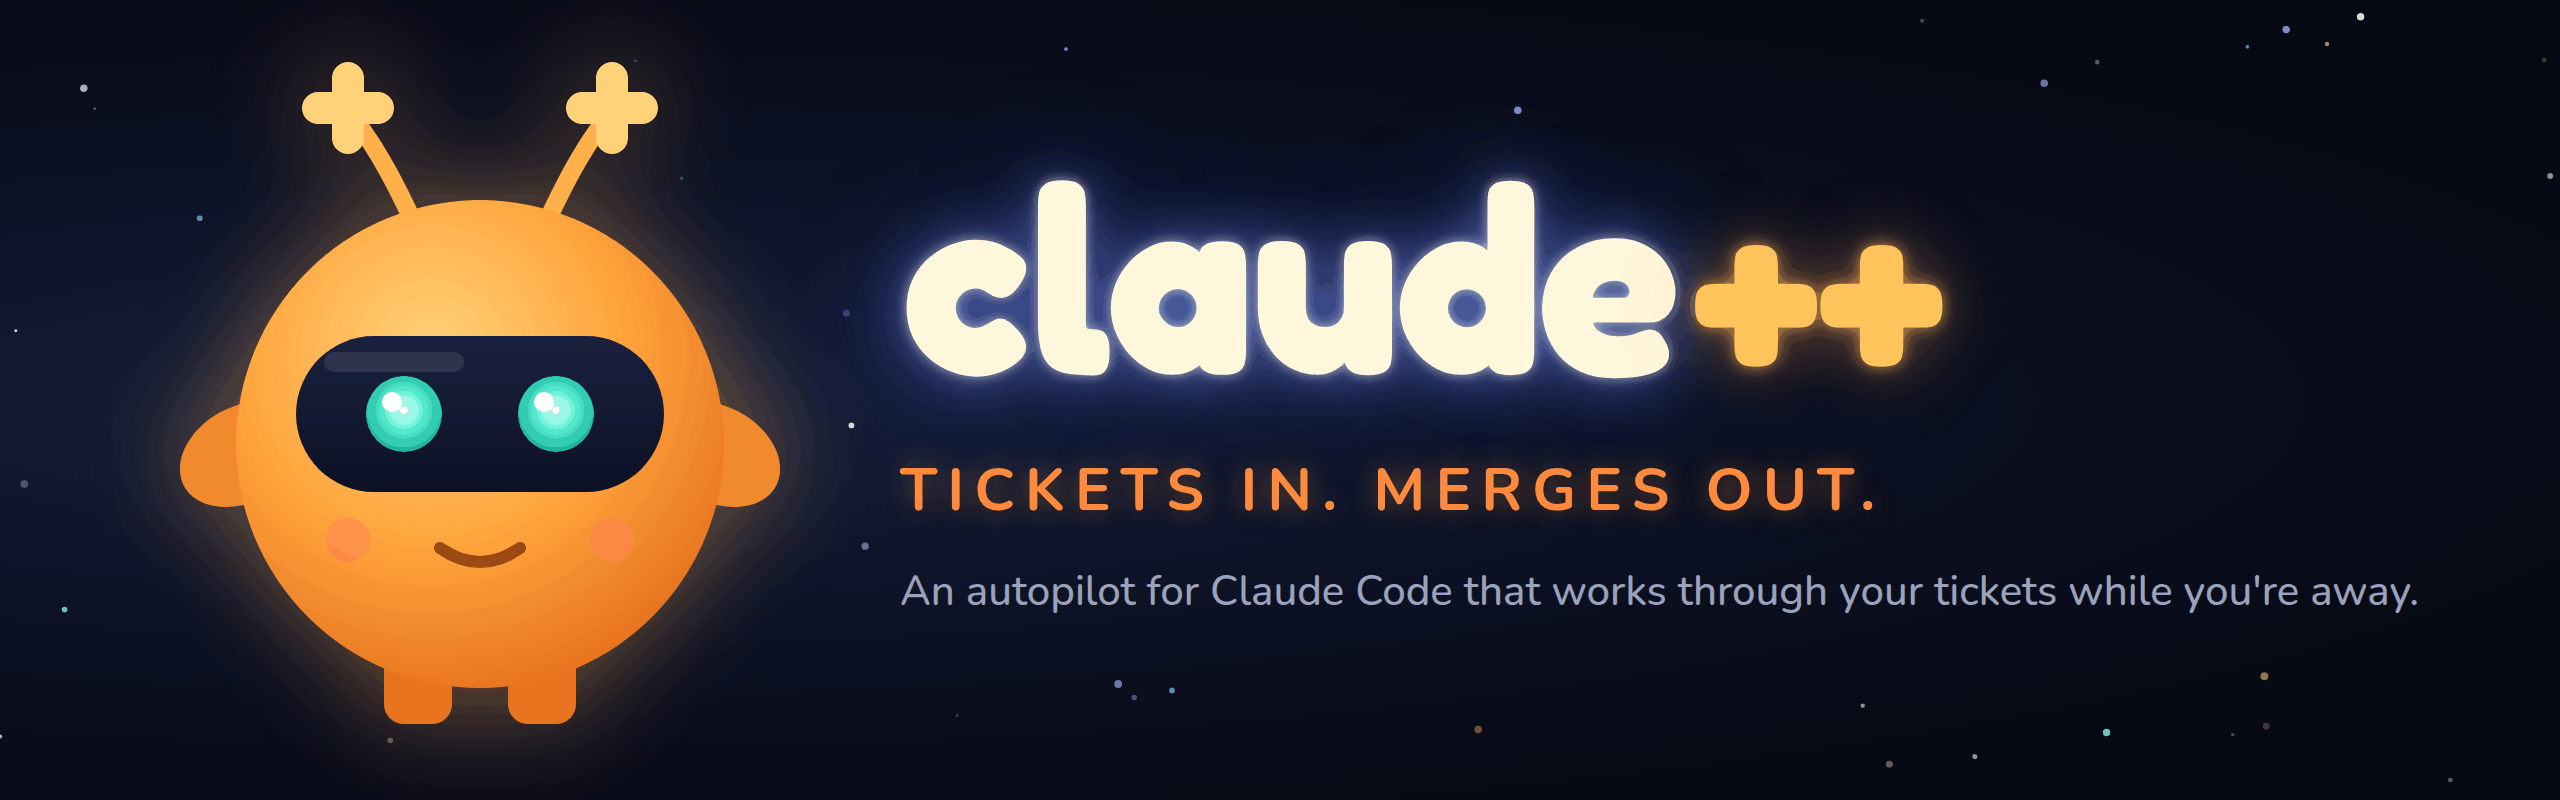
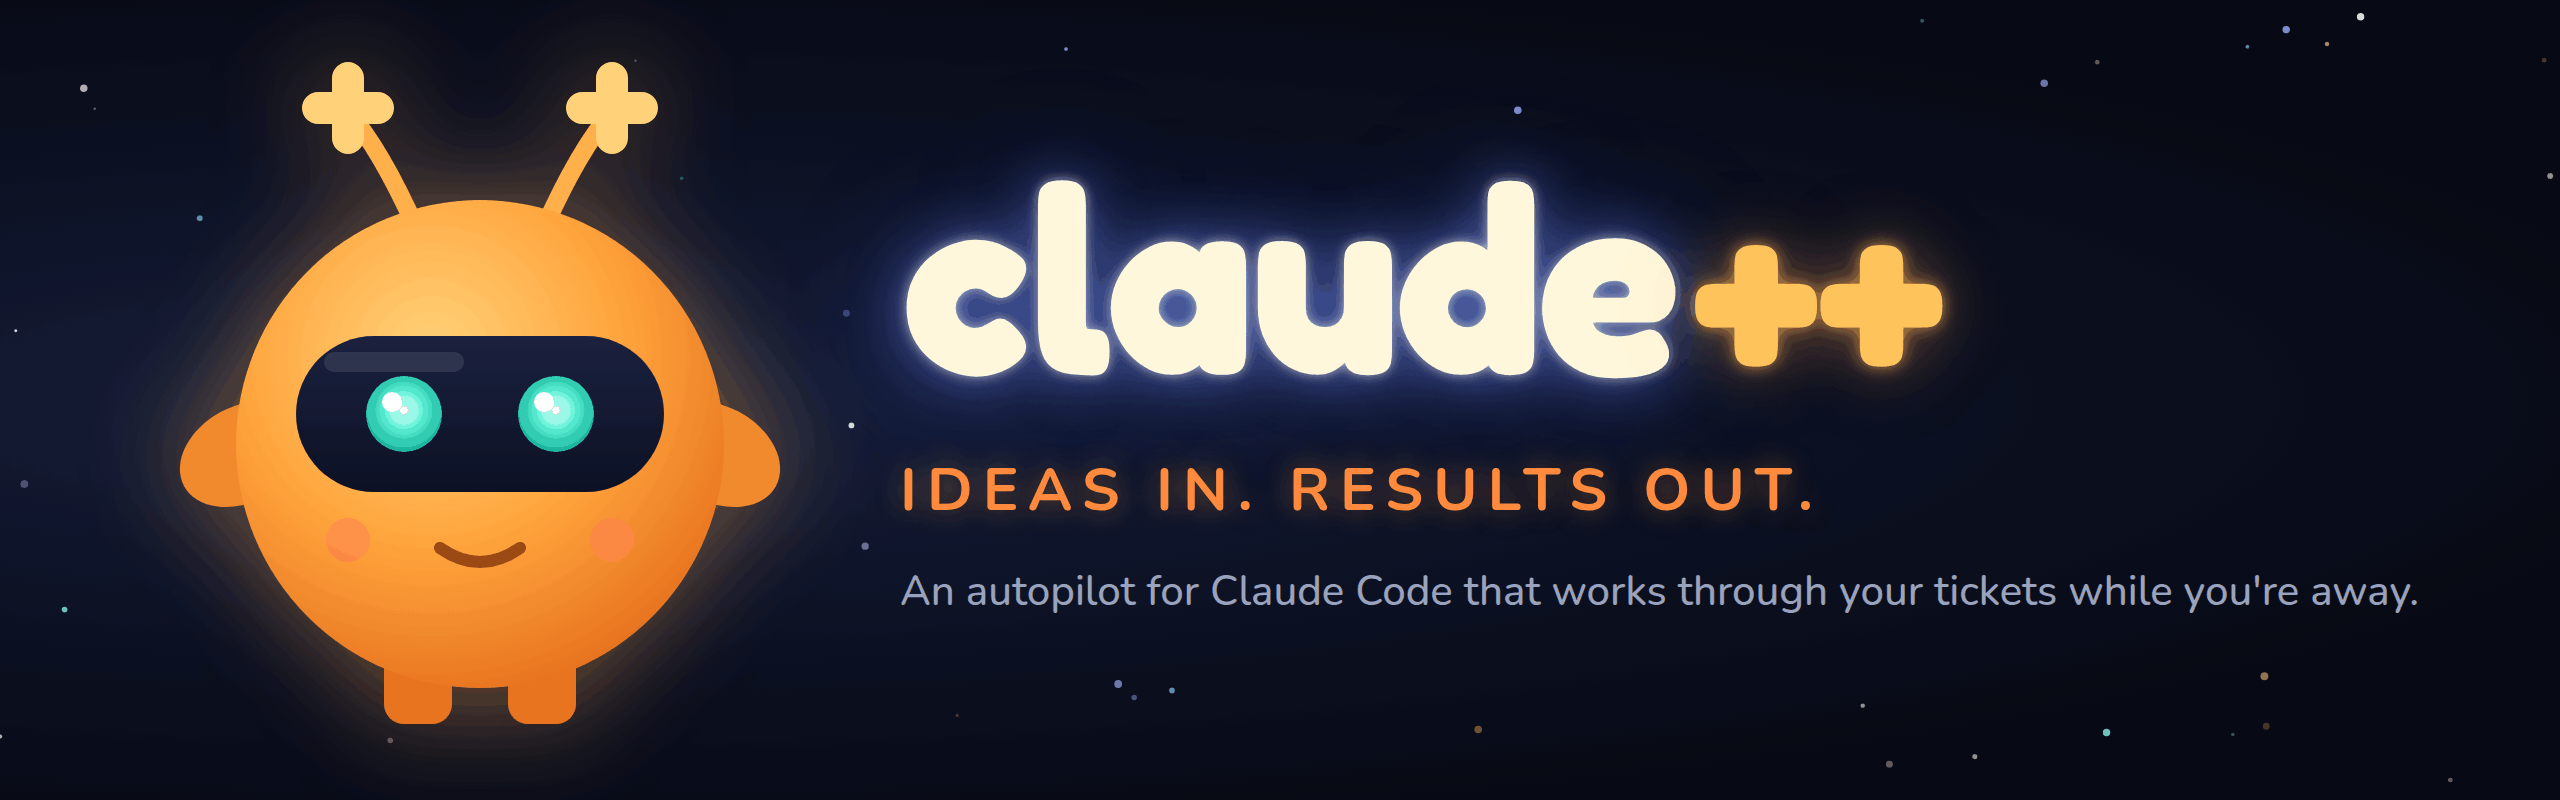
README header: ideas in, results out

Changed region(s): [[0.3438, 0.5625, 0.7188, 0.6562]]

diff --git a/README.md b/README.md
@@ -1,5 +1,5 @@
 <p align="center">
-  <img src="docs/assets/banner.png" alt="windvane: tickets in, merges out. An autopilot for Claude Code." width="100%">
+  <img src="docs/assets/banner.png" alt="windvane: ideas in, results out. An autopilot for Claude Code." width="100%">
 </p>
 
 <p align="center">
